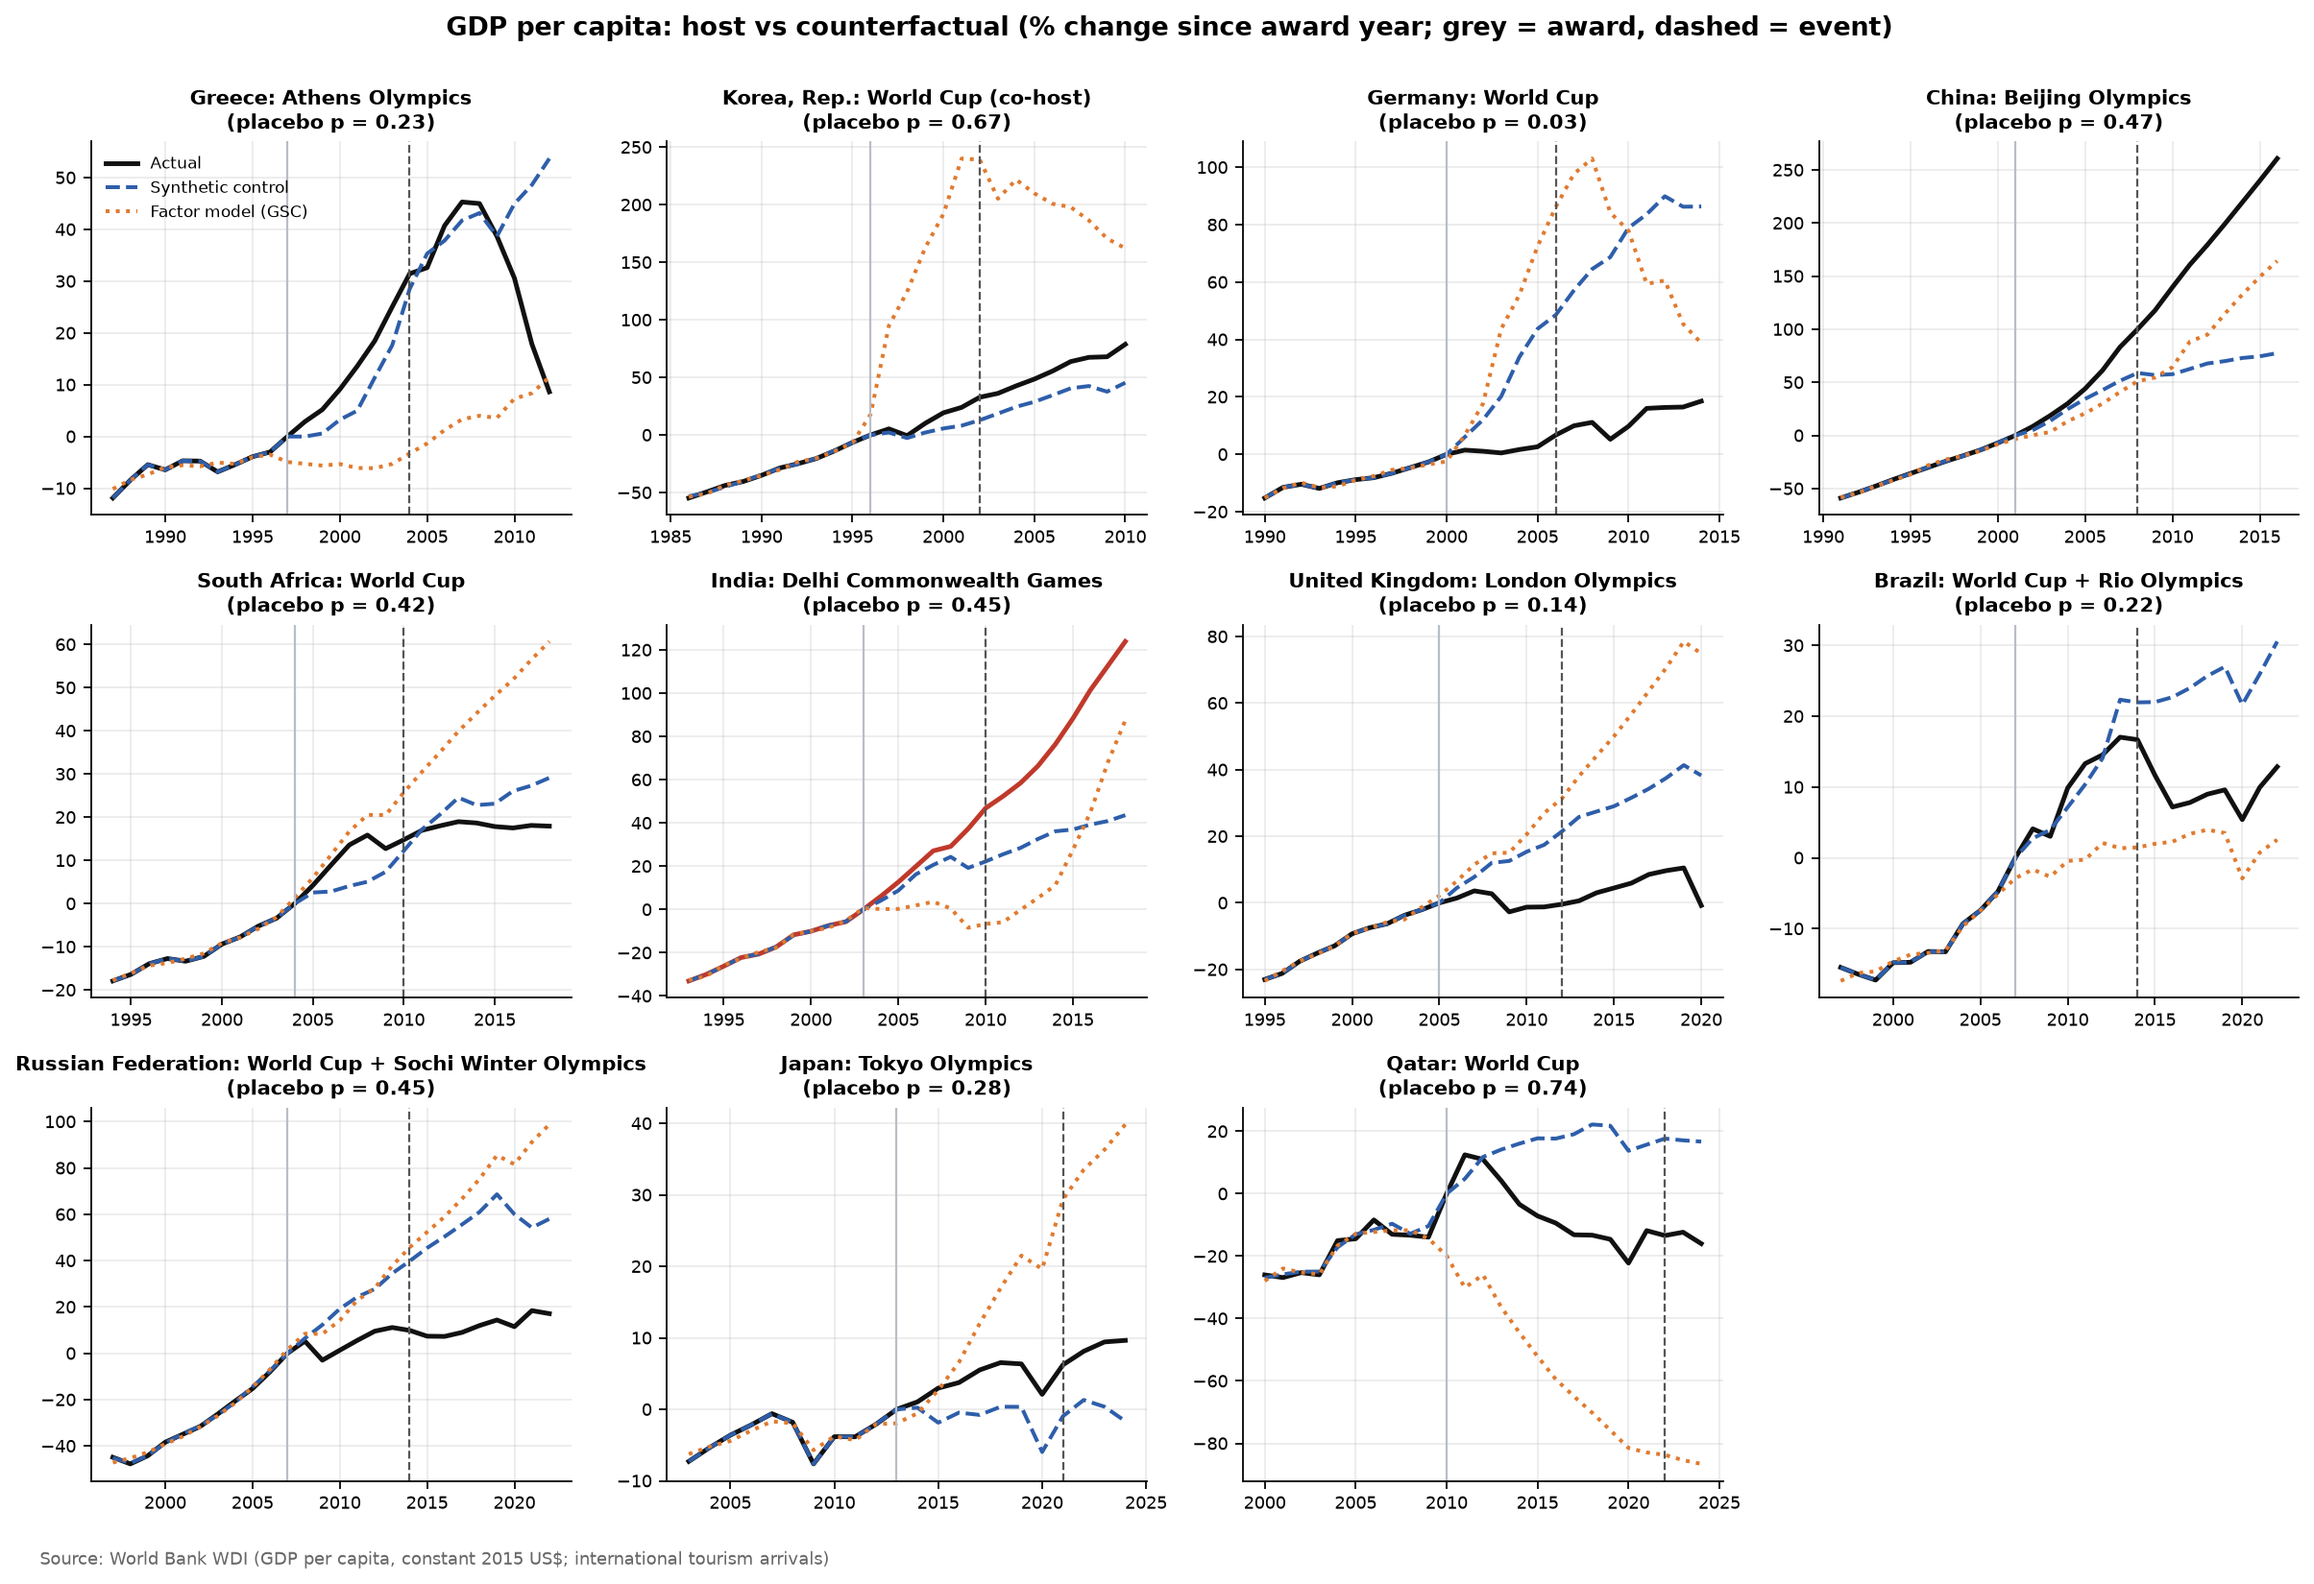
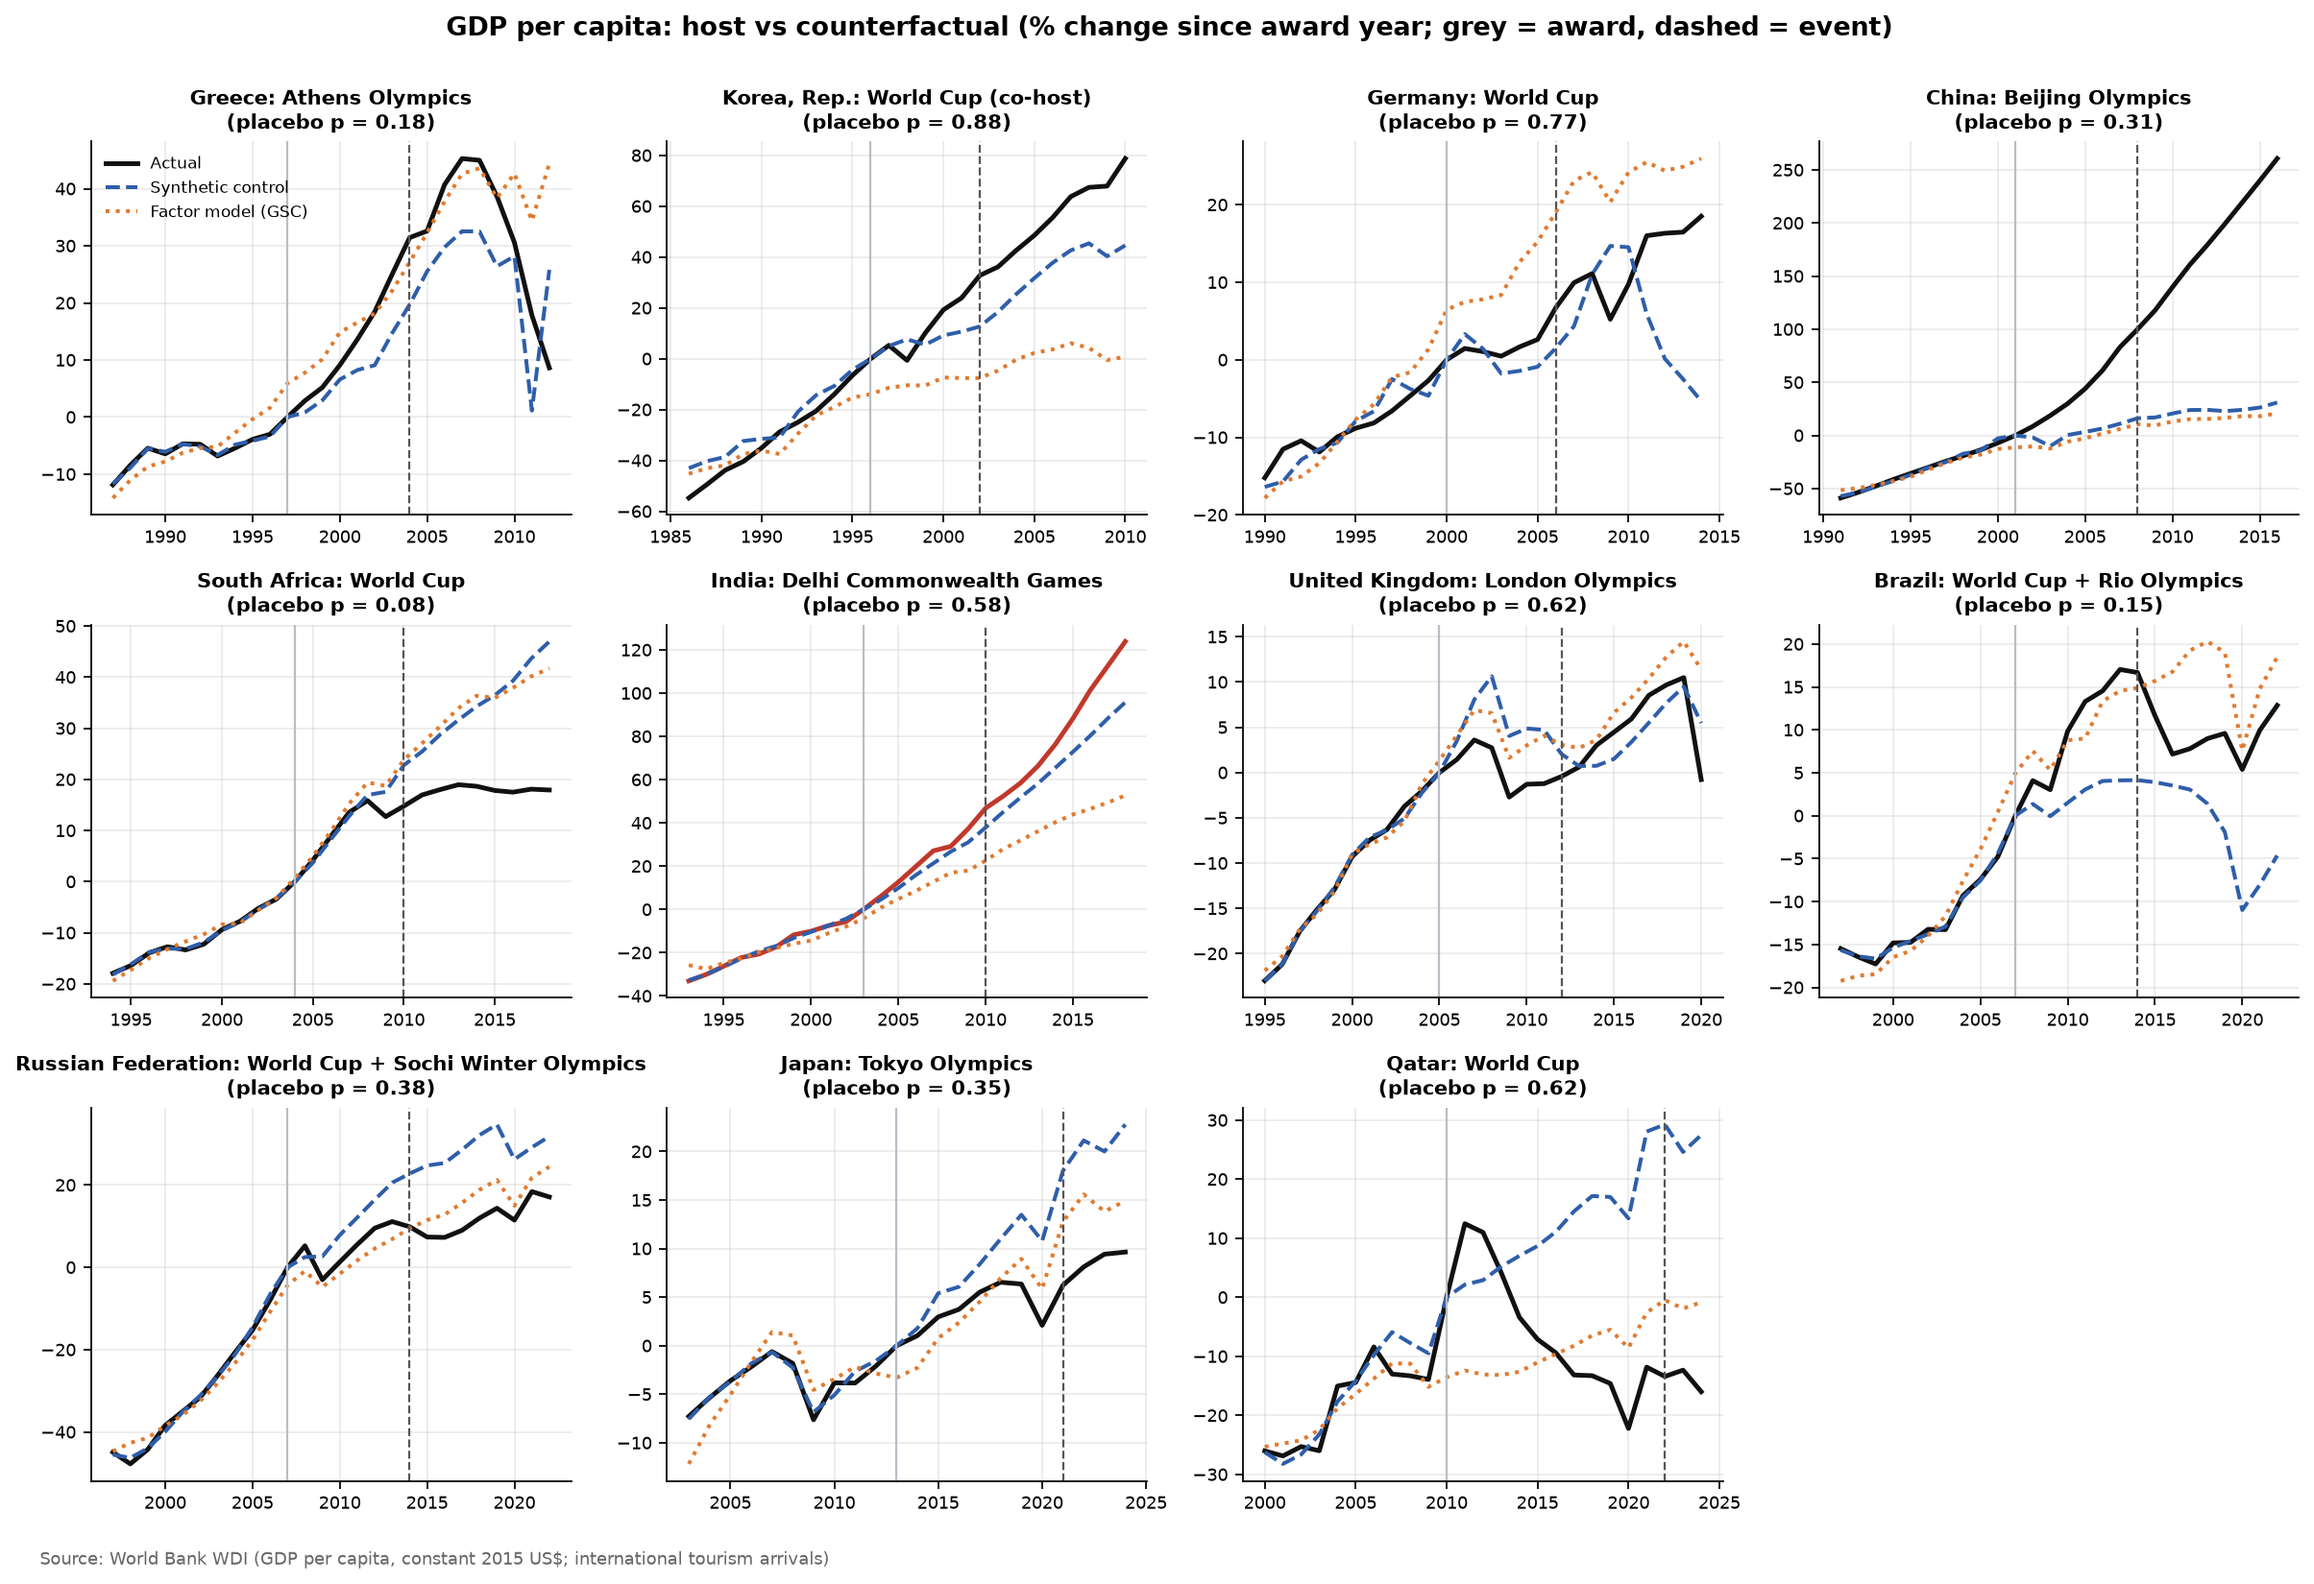
Refresh data and results [skip ci]

diff --git a/outputs/results.md b/outputs/results.md
@@ -2,30 +2,30 @@ _Auto-generated by `run.py` on 2026-09-25. Numbers refresh whenever the pipeline
 
 ### Headline numbers
 
-- **GDP per capita:** average post-event effect across 11 hosts is **-0.4%** (synthetic control) and **+38.4%** (factor model). 1 of 11 hosts show an effect larger than 90% of placebo countries.
-- **Tourist arrivals:** average post-event effect across 5 hosts is **-35.6%** (synthetic control) and **+118.2%** (factor model). 0 of 5 hosts show an effect larger than 90% of placebo countries.
-- **India (Delhi 2010):** +34.3% vs synthetic India (placebo p = 0.45).
+- **GDP per capita:** average post-event effect across 11 hosts is **+10.0%** (synthetic control) and **+15.3%** (factor model). 1 of 11 hosts show an effect larger than 90% of placebo countries.
+- **Tourist arrivals:** average post-event effect across 5 hosts is **+46.3%** (synthetic control) and **+14.4%** (factor model). 0 of 5 hosts show an effect larger than 90% of placebo countries.
+- **India (Delhi 2010):** +8.4% vs synthetic India (placebo p = 0.58).
 
 ### Host-by-host estimates
 
 | Outcome | Host | Event | Avg effect, synth control (%) | Avg effect, factor model (%) | Placebo p-value | Factors (CV) | Pre-fit RMSE | Top donors |
 |---|---|---|---|---|---|---|---|---|
-| GDP per capita | Greece | Athens Olympics 2004 | -5.97 | 27.90 | 0.23 | 2 | 0.00 | Thailand (0.27), Chad (0.21), Sierra Leone (0.12), Sudan (0.11) |
-| GDP per capita | Korea, Rep. | World Cup (co-host) 2002 | 17.44 | -47.63 | 0.67 | 5 | 0.01 | Thailand (0.67), Honduras (0.16), Botswana (0.10), Mozambique (0.03) |
-| GDP per capita | Germany | World Cup 2006 | -35.15 | -33.64 | 0.03 | 4 | 0.00 | Myanmar (0.23), Lebanon (0.22), Chad (0.20), Tajikistan (0.11) |
-| GDP per capita | China | Beijing Olympics 2008 | 66.92 | 38.93 | 0.47 | 3 | 0.00 | Myanmar (0.25), Kuwait (0.24), Albania (0.22), Honduras (0.17) |
-| GDP per capita | South Africa | World Cup 2010 | -3.88 | -17.61 | 0.42 | 2 | 0.00 | Sierra Leone (0.21), Mali (0.19), Guinea-Bissau (0.14), Zimbabwe (0.09) |
-| GDP per capita | India | Delhi Commonwealth Games 2010 | 34.32 | 47.46 | 0.45 | 5 | 0.00 | Albania (0.20), Botswana (0.17), Mozambique (0.12), Trinidad and Tobago (0.11) |
-| GDP per capita | United Kingdom | London Olympics 2012 | -20.57 | -32.59 | 0.14 | 3 | 0.00 | Togo (0.26), Madagascar (0.16), Albania (0.15), Sierra Leone (0.09) |
-| GDP per capita | Brazil | World Cup + Rio Olympics 2014 | -11.68 | 8.00 | 0.22 | 1 | 0.00 | Kyrgyz Republic (0.26), Congo, Dem. Rep. (0.21), Sierra Leone (0.16), Zimbabwe (0.09) |
-| GDP per capita | Russian Federation | World Cup + Sochi Winter Olympics 2014 | -27.58 | -34.82 | 0.45 | 1 | 0.01 | Myanmar (0.46), Guinea-Bissau (0.17), Indonesia (0.11), Kyrgyz Republic (0.10) |
-| GDP per capita | Japan | Tokyo Olympics 2021 | 8.63 | -19.56 | 0.28 | 2 | 0.00 | Botswana (0.32), Oman (0.19), Kuwait (0.14), Gabon (0.11) |
-| GDP per capita | Qatar | World Cup 2022 | -26.52 | 485.57 | 0.74 | 2 | 0.02 | Singapore (0.28), Chad (0.22), Zimbabwe (0.22), Myanmar (0.16) |
-| Tourist arrivals | China | Beijing Olympics 2008 | -61.48 | -58.91 | 0.15 | 1 | 0.00 | Israel (0.27), Armenia (0.24), Turkiye (0.21), Azerbaijan (0.13) |
-| Tourist arrivals | South Africa | World Cup 2010 | -45.64 | 78.20 | 0.51 | 1 | 0.00 | Haiti (0.29), Gambia, The (0.23), Uzbekistan (0.19), Armenia (0.13) |
-| Tourist arrivals | India | Delhi Commonwealth Games 2010 | -44.92 | 517.35 | 0.40 | 1 | 0.00 | Armenia (0.32), Moldova (0.25), West Bank and Gaza (0.18), Uzbekistan (0.12) |
-| Tourist arrivals | United Kingdom | London Olympics 2012 | -47.24 | -36.79 | 0.15 | 3 | 0.00 | Zimbabwe (0.38), Gambia, The (0.22), Cambodia (0.21), West Bank and Gaza (0.08) |
-| Tourist arrivals | Russian Federation | World Cup + Sochi Winter Olympics 2014 | 21.12 | 91.12 | 0.76 | 1 | 0.02 | Eswatini (0.56), Finland (0.36), Puerto Rico (US) (0.07) |
+| GDP per capita | Greece | Athens Olympics 2004 | 6.37 | -4.08 | 0.18 | 2 | 0.00 | Libya (0.35), Hungary (0.24), Puerto Rico (US) (0.18), Cyprus (0.11) |
+| GDP per capita | Korea, Rep. | World Cup (co-host) 2002 | 16.16 | 53.97 | 0.88 | 2 | 0.11 | Chile (0.86), Kuwait (0.14) |
+| GDP per capita | Germany | World Cup 2006 | 7.61 | -9.16 | 0.77 | 2 | 0.02 | Oman (0.97), Finland (0.03) |
+| GDP per capita | China | Beijing Olympics 2008 | 126.40 | 141.48 | 0.31 | 2 | 0.02 | Honduras (0.31), Iraq (0.20), Albania (0.19), Timor-Leste (0.11) |
+| GDP per capita | South Africa | World Cup 2010 | -12.19 | -12.17 | 0.08 | 2 | 0.00 | Egypt, Arab Rep. (0.33), Thailand (0.24), Ecuador (0.23), Dominican Republic (0.10) |
+| GDP per capita | India | Delhi Commonwealth Games 2010 | 8.39 | 29.34 | 0.58 | 2 | 0.01 | Lao PDR (0.35), Viet Nam (0.26), Senegal (0.09), Uganda (0.09) |
+| GDP per capita | United Kingdom | London Olympics 2012 | 0.53 | -3.23 | 0.62 | 2 | 0.00 | Slovenia (0.38), Finland (0.29), Oman (0.18), Bahrain (0.11) |
+| GDP per capita | Brazil | World Cup + Rio Olympics 2014 | 11.46 | -5.34 | 0.15 | 2 | 0.00 | Guatemala (0.36), Jamaica (0.17), Venezuela, RB (0.13), Thailand (0.13) |
+| GDP per capita | Russian Federation | World Cup + Sochi Winter Olympics 2014 | -12.85 | -4.13 | 0.38 | 2 | 0.01 | Kazakhstan (0.53), Cuba (0.28), Thailand (0.19) |
+| GDP per capita | Japan | Tokyo Olympics 2021 | -10.06 | -5.18 | 0.35 | 2 | 0.01 | Bahrain (0.37), Denmark (0.32), Ireland (0.17), Singapore (0.10) |
+| GDP per capita | Qatar | World Cup 2022 | -32.26 | -12.97 | 0.62 | 2 | 0.04 | Singapore (0.85), Oman (0.15) |
+| Tourist arrivals | South Africa | World Cup 2010 | 65.82 | 13.22 | 0.28 | 2 | 0.02 | Ireland (0.77), Finland (0.14), Jordan (0.10) |
+| Tourist arrivals | India | Delhi Commonwealth Games 2010 | 168.10 | 129.77 | 0.15 | 2 | 0.01 | Romania (0.52), Jamaica (0.15), Cyprus (0.13), Dominican Republic (0.11) |
+| Tourist arrivals | United Kingdom | London Olympics 2012 | -5.91 | -19.30 | 0.88 | 2 | 0.03 | Ireland (0.67), Egypt, Arab Rep. (0.18), Singapore (0.15) |
+| Tourist arrivals | Brazil | World Cup + Rio Olympics 2014 | 13.86 | -24.14 | 0.81 | 1 | 0.04 | Puerto Rico (US) (0.71), Cuba (0.22), Israel (0.07) |
+| Tourist arrivals | Russian Federation | World Cup + Sochi Winter Olympics 2014 | -10.20 | -27.39 | 0.93 | 2 | 0.16 | Hungary (1.00) |
 
 ### Figures
 

diff --git a/README.md b/README.md
@@ -37,7 +37,49 @@ Each series is indexed to the **award year**, because spending starts when the b
 
 ## Results
 <!-- RESULTS:START -->
-_Results, tables and figures are generated automatically by the GitHub Action (`Actions` tab → **Run analysis**). They appear here a few minutes after the first push._
+_Auto-generated by `run.py` on 2026-09-25. Numbers refresh whenever the pipeline re-runs._
+
+### Headline numbers
+
+- **GDP per capita:** average post-event effect across 11 hosts is **+10.0%** (synthetic control) and **+15.3%** (factor model). 1 of 11 hosts show an effect larger than 90% of placebo countries.
+- **Tourist arrivals:** average post-event effect across 5 hosts is **+46.3%** (synthetic control) and **+14.4%** (factor model). 0 of 5 hosts show an effect larger than 90% of placebo countries.
+- **India (Delhi 2010):** +8.4% vs synthetic India (placebo p = 0.58).
+
+### Host-by-host estimates
+
+| Outcome | Host | Event | Avg effect, synth control (%) | Avg effect, factor model (%) | Placebo p-value | Factors (CV) | Pre-fit RMSE | Top donors |
+|---|---|---|---|---|---|---|---|---|
+| GDP per capita | Greece | Athens Olympics 2004 | 6.37 | -4.08 | 0.18 | 2 | 0.00 | Libya (0.35), Hungary (0.24), Puerto Rico (US) (0.18), Cyprus (0.11) |
+| GDP per capita | Korea, Rep. | World Cup (co-host) 2002 | 16.16 | 53.97 | 0.88 | 2 | 0.11 | Chile (0.86), Kuwait (0.14) |
+| GDP per capita | Germany | World Cup 2006 | 7.61 | -9.16 | 0.77 | 2 | 0.02 | Oman (0.97), Finland (0.03) |
+| GDP per capita | China | Beijing Olympics 2008 | 126.40 | 141.48 | 0.31 | 2 | 0.02 | Honduras (0.31), Iraq (0.20), Albania (0.19), Timor-Leste (0.11) |
+| GDP per capita | South Africa | World Cup 2010 | -12.19 | -12.17 | 0.08 | 2 | 0.00 | Egypt, Arab Rep. (0.33), Thailand (0.24), Ecuador (0.23), Dominican Republic (0.10) |
+| GDP per capita | India | Delhi Commonwealth Games 2010 | 8.39 | 29.34 | 0.58 | 2 | 0.01 | Lao PDR (0.35), Viet Nam (0.26), Senegal (0.09), Uganda (0.09) |
+| GDP per capita | United Kingdom | London Olympics 2012 | 0.53 | -3.23 | 0.62 | 2 | 0.00 | Slovenia (0.38), Finland (0.29), Oman (0.18), Bahrain (0.11) |
+| GDP per capita | Brazil | World Cup + Rio Olympics 2014 | 11.46 | -5.34 | 0.15 | 2 | 0.00 | Guatemala (0.36), Jamaica (0.17), Venezuela, RB (0.13), Thailand (0.13) |
+| GDP per capita | Russian Federation | World Cup + Sochi Winter Olympics 2014 | -12.85 | -4.13 | 0.38 | 2 | 0.01 | Kazakhstan (0.53), Cuba (0.28), Thailand (0.19) |
+| GDP per capita | Japan | Tokyo Olympics 2021 | -10.06 | -5.18 | 0.35 | 2 | 0.01 | Bahrain (0.37), Denmark (0.32), Ireland (0.17), Singapore (0.10) |
+| GDP per capita | Qatar | World Cup 2022 | -32.26 | -12.97 | 0.62 | 2 | 0.04 | Singapore (0.85), Oman (0.15) |
+| Tourist arrivals | South Africa | World Cup 2010 | 65.82 | 13.22 | 0.28 | 2 | 0.02 | Ireland (0.77), Finland (0.14), Jordan (0.10) |
+| Tourist arrivals | India | Delhi Commonwealth Games 2010 | 168.10 | 129.77 | 0.15 | 2 | 0.01 | Romania (0.52), Jamaica (0.15), Cyprus (0.13), Dominican Republic (0.11) |
+| Tourist arrivals | United Kingdom | London Olympics 2012 | -5.91 | -19.30 | 0.88 | 2 | 0.03 | Ireland (0.67), Egypt, Arab Rep. (0.18), Singapore (0.15) |
+| Tourist arrivals | Brazil | World Cup + Rio Olympics 2014 | 13.86 | -24.14 | 0.81 | 1 | 0.04 | Puerto Rico (US) (0.71), Cuba (0.22), Israel (0.07) |
+| Tourist arrivals | Russian Federation | World Cup + Sochi Winter Olympics 2014 | -10.20 | -27.39 | 0.93 | 2 | 0.16 | Hungary (1.00) |
+
+### Figures
+
+**Average event study**
+
+![Average event study](outputs/figures/03_event_study_average.png)
+
+**GDP per capita by host**
+
+![GDP per capita](outputs/figures/01_ln_gdppc_by_host.png)
+
+**Tourist arrivals by host**
+
+![Tourist arrivals](outputs/figures/02_ln_arr_by_host.png)
+
 <!-- RESULTS:END -->
 
 ## Reproduce
